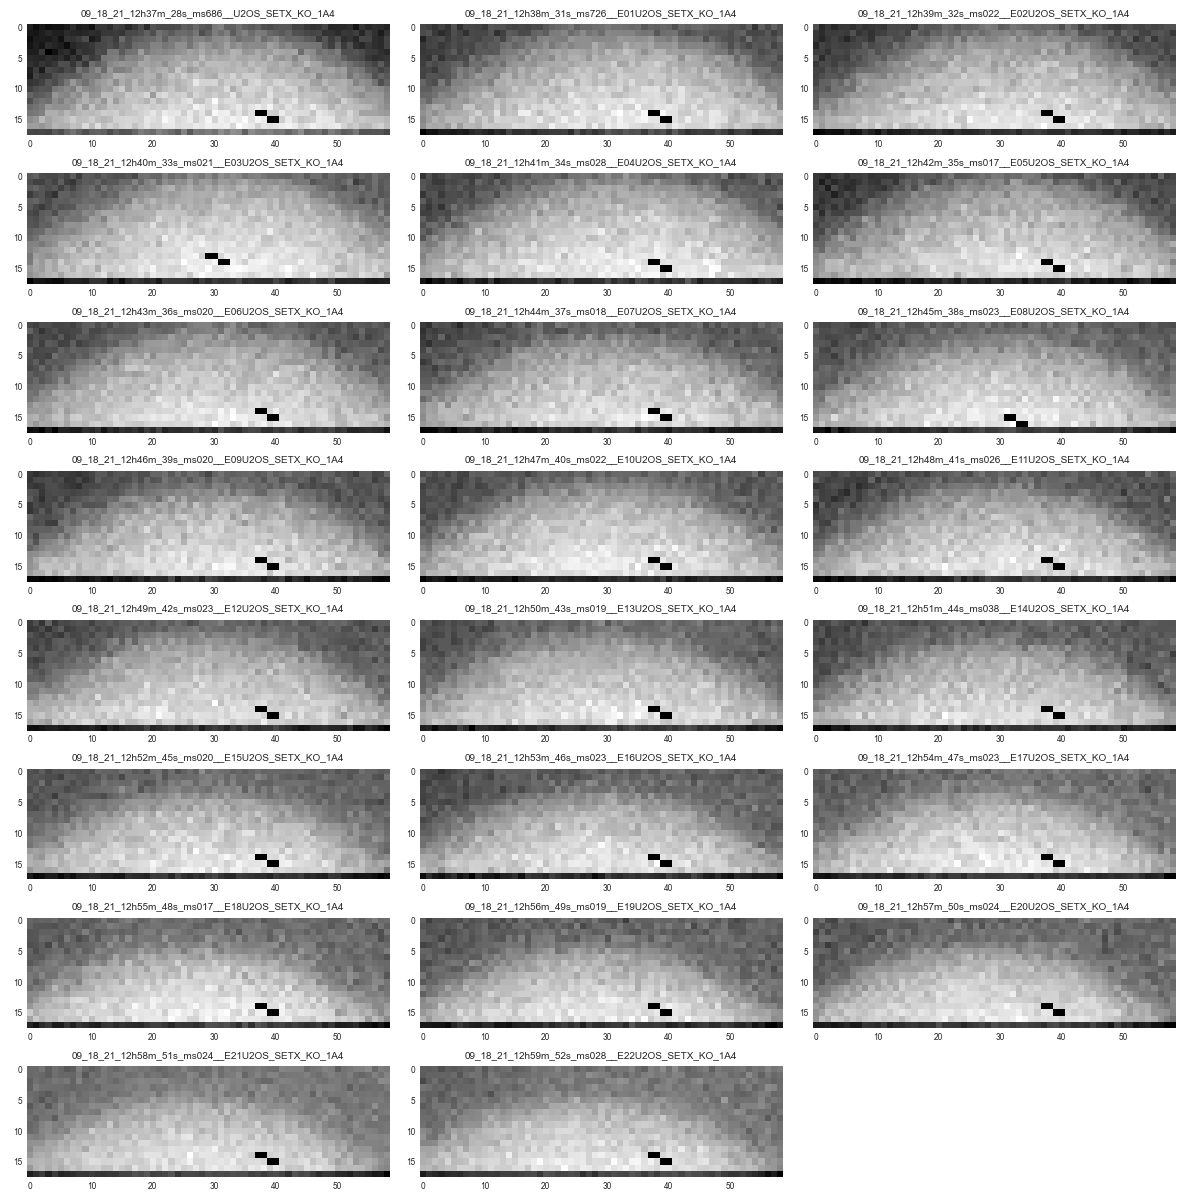
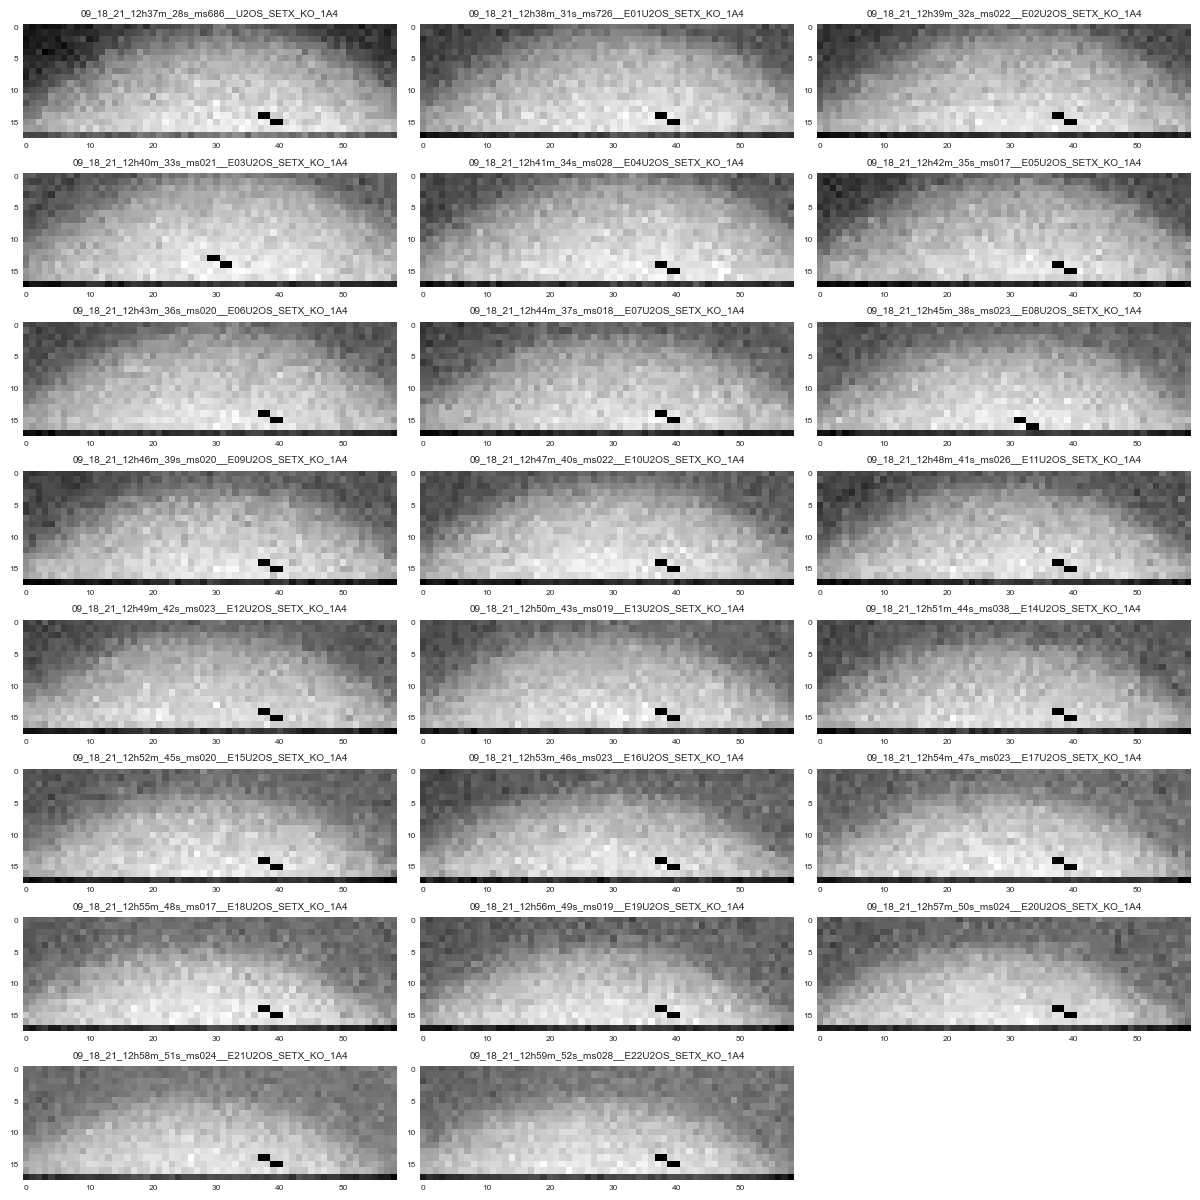
Update

Changed region(s): [[0.0, 0.0, 1.0, 0.9867]]

diff --git a/Laser_Line_Detection/singleCellDection.py b/Laser_Line_Detection/singleCellDection.py
@@ -14,11 +14,16 @@ import glob
 FLAGS = flags.FLAGS
 
 flags.DEFINE_string("imageDirectory",
-                     r"C:\Victor\AIImageAnalysis\Images after laser cutting for AI project\1 DNA repair\09182021\09182021\09182021 SETX KO 1A5\output\cell_19",
+                     r"C:\Users\Victor\OneDrive\Documents\GitHub\AIImageAnalysis\Laser_Line_Detection\results\output\cell_9",
                       "Single DNA folder")
 
-flags.DEFINE_float('threshPercentage', 98, 'ThreshPercentage')
+
+
+flags.DEFINE_float('threshPercentage', 89, 'ThreshPercentage')
+flags.DEFINE_float('slopeDifference', 30, 'slopeDifference')
 flags.DEFINE_float('threshDistanceOfMaxBrightnessPoints', 30, 'ThreshDistanceOfMaxBrightnessPoints')
+
+
 
 flags.DEFINE_integer('exclusion_x', 0, 'exclusion x')
 flags.DEFINE_integer('exclusion_y', 0, 'exclusion y')
@@ -26,10 +31,10 @@ flags.DEFINE_integer('exclusion_width', 0, 'exclusion width')
 flags.DEFINE_integer('exclusion_height', 0, 'exclusion height')
 
 
-# flags.DEFINE_integer('exclusion_x', 70, 'exclusion x')
-# flags.DEFINE_integer('exclusion_y', 66, 'exclusion y')
-# flags.DEFINE_integer('exclusion_width', 30, 'exclusion width')
-# flags.DEFINE_integer('exclusion_height', 30, 'exclusion height')
+#flags.DEFINE_integer('exclusion_x', 62, 'exclusion x')
+#flags.DEFINE_integer('exclusion_y', 62, 'exclusion y')
+#flags.DEFINE_integer('exclusion_width', 60, 'exclusion width')
+#flags.DEFINE_integer('exclusion_height', 60, 'exclusion height')
 
 
 image_directory = ""
@@ -41,6 +46,8 @@ def main(argv):
     image_directory = FLAGS.imageDirectory
 
     print("FLAGS.imageDirectory: " + FLAGS.imageDirectory)
+    global slopeDifference
+    slopeDifference = FLAGS.slopeDifference
 
     global threshPercentage
     threshPercentage = FLAGS.threshPercentage
@@ -256,10 +263,11 @@ def reset_cut_line_for_all_files(imageFiles, max_brightness_file_index):
 
         point1 = np.array([base_file_max_brightness_x, base_file_max_brightness_y])
         point2 = np.array([max_brightness_x, max_brightness_y])
-
+        # Differences of slopes
         distance = np.linalg.norm(point2 - point1)
-        isSimiliarSlope = is_similiar_slope(currentLineSlope, max_brightness_line_slope, 30)
+        isSimiliarSlope = is_similiar_slope(currentLineSlope, max_brightness_line_slope, slopeDifference)
 
+        
         print(f'isSimiliarSlope:{str(isSimiliarSlope)}')
 
         if (distance > threshDistanceOfMaxBrightnessPoints or isSimiliarSlope == False):

diff --git a/Laser_Line_Detection/cropCells.py b/Laser_Line_Detection/cropCells.py
@@ -1,4 +1,4 @@
-import cv2
+import cv2  
 import tifffile as tiff
 from cellpose import models, plot
 import os
@@ -10,8 +10,8 @@ from absl import flags
 
 FLAGS = flags.FLAGS
 
-flags.DEFINE_string('image_input_folder', r"C:\Users\hongy\OneDrive\Documents\GitHub\AIImageAnalysis\Images after laser cutting for AI project\1 DNA repair\04112023 Tong KO 5787 5713\04112023 Tong KO 5787 5713\Dish1 KO 5713\FOV4 6 cells 50mW", 'Path to the folder containing the TIFF files')
-flags.DEFINE_string('image_output_folder', r'C:\temp\8', 'Path to the folder where the output will be saved')
+flags.DEFINE_string('image_input_folder', r"C:\Users\Victor\OneDrive\Documents\GitHub\AIImageAnalysis\Laser_Line_Detection\results", 'Path to the folder containing the TIFF files')
+flags.DEFINE_string('image_output_folder', r'C:\Users\Victor\OneDrive\Documents\GitHub\AIImageAnalysis\Laser_Line_Detection\results\output', 'Path to the folder where the output will be saved')
 flags.DEFINE_integer('diameter', 120, 'Custom diameter value (in pixels) used for the cellpose model')
 
 flags.mark_flag_as_required('image_input_folder')
